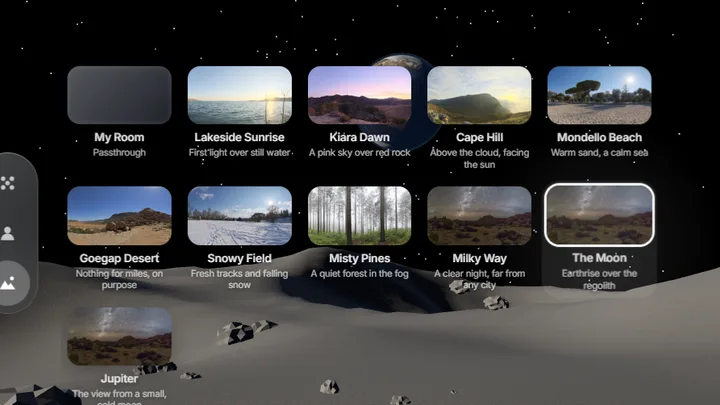
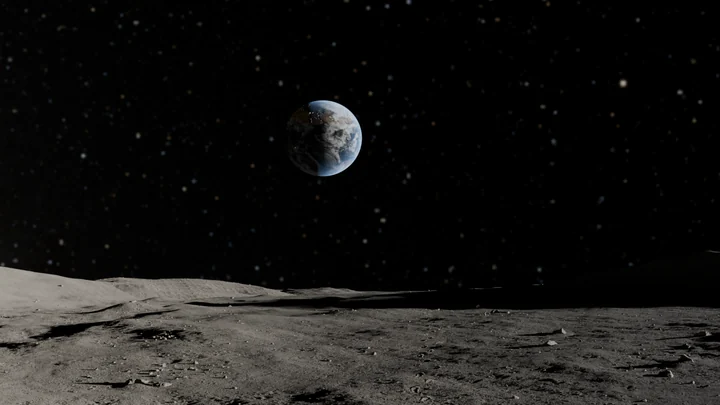
The Moon becomes a path-traced 360-degree photograph
Rendered in Blender Cycles at 8K from Poly Haven's CC0 lunar terrain, with an Earth built from
NASA's Blue Marble and Black Marble maps (city lights on the night side) and a sky from NASA's
Deep Star Maps 2020. It now uses the photo pipeline; the old three.js Moon and its map go.

Claude-Session: https://claude.ai/code/session_011U9gScKH4wDu2Df3EQjfnb

diff --git a/src/components/pages/home/vision/VisionEnvironment.vue b/src/components/pages/home/vision/VisionEnvironment.vue
@@ -210,31 +210,16 @@ async function enter(id: VisionEnvironmentId, turn: number) {
       });
     }
   } else {
-    // Space: a black sky of stars, one hard sun, and a world to stand on.
-    const sky = stars(now.kind === 'moon' ? 5200 : 4200, 400);
+    // Jupiter: a black sky of stars, one hard sun, and a small cold moon to stand on.
+    const sky = stars(4200, 400);
     // The sun sits low and to the side of the wearer: craters throw long shadows and the worlds overhead show most of their lit face.
-    const sun = new DirectionalLight(0xfff4e6, now.kind === 'moon' ? 3.2 : 2.7);
+    const sun = new DirectionalLight(0xfff4e6, 2.7);
     sun.position.set(-230, 64, 70);
-    scene.add(sun, new AmbientLight(0x3a4260, now.kind === 'moon' ? 0.3 : 0.55));
+    scene.add(sun, new AmbientLight(0x3a4260, 0.55));
     owned.push({ dispose: () => { sun.dispose(); } });
     const world = new Group();
     scene.add(world);
-    if (now.kind === 'moon') {
-      regolith('#a3a3a1', 1, 190);
-      const map = await picture('earth-map.webp');
-      if (turn !== request) return;
-      // Earth is drawn larger than life, the way it feels in the Apollo photographs.
-      const earth = new Mesh(keep(new SphereGeometry(21, 72, 48)), keep(new MeshStandardMaterial({ map, roughness: 0.8, metalness: 0, emissive: new Color(0x0a1830), emissiveIntensity: 0.6 })));
-      earth.position.set(34, 74, -230); earth.rotation.z = 0.41;
-      const air = new Mesh(keep(new SphereGeometry(21.9, 56, 36)), keep(new MeshBasicMaterial({ color: 0x5aa8ff, transparent: true, opacity: 0.2, side: BackSide, blending: AdditiveBlending, depthWrite: false })));
-      air.position.copy(earth.position);
-      world.add(earth, air);
-      const earthLight = new DirectionalLight(0x9cc4ff, 0.18);
-      earthLight.position.copy(earth.position);
-      scene.add(earthLight);
-      owned.push({ dispose: () => earthLight.dispose() });
-      ticks.push((seconds) => { earth.rotation.y = 2.2 + seconds * 0.012; sky.rotation.y = seconds * 0.0012; });
-    } else {
+    {
       regolith('#c6b79b', 0.75, 120);
       const map = await picture('jupiter-map.webp');
       if (turn !== request) return;

diff --git a/src/components/pages/home/vision/vision.ts b/src/components/pages/home/vision/vision.ts
@@ -35,7 +35,8 @@ export type VisionAppId = (typeof VISION_APPS)[number]['id'];
 /**
  * Places to be. `room` is passthrough: the real 3D room behind the glass.
  * `photo` places are 360-degree photographs from Poly Haven (CC0), named for where they were taken;
- * `moon` and `jupiter` are built in three.js from NASA's public-domain maps.
+ * The Moon is a full 360-degree path-traced render: Poly Haven's CC0 lunar terrain, an Earth from NASA's Blue
+ * Marble and Black Marble maps, and NASA's Deep Star Maps sky. `jupiter` is built in three.js from NASA's maps.
  * `life` adds something that moves; `sound` picks the ambience; `night` marks places that are already dark.
  */
 export const VISION_ENVIRONMENTS = [
@@ -53,7 +54,7 @@ export const VISION_ENVIRONMENTS = [
   { id: 'sunflowers', name: 'Open Fields', line: 'Big sky, small road, no plans', kind: 'photo', life: 'motes', sound: 'wind', night: false },
   { id: 'fireside', name: 'Fireside', line: 'A warm room and a crackling stove', kind: 'photo', life: 'none', sound: 'fire', night: true },
   { id: 'night', name: 'Milky Way', line: 'A clear night, far from any city', kind: 'photo', life: 'meteors', sound: 'night', night: true },
-  { id: 'moon', name: 'The Moon', line: 'Earthrise over the regolith', kind: 'moon', life: 'none', sound: 'space', night: true },
+  { id: 'moon', name: 'The Moon', line: 'Earthrise over the regolith', kind: 'photo', life: 'none', sound: 'space', night: true },
   { id: 'jupiter', name: 'Jupiter', line: 'The view from a small, cold moon', kind: 'jupiter', life: 'none', sound: 'space', night: true },
 ] as const;
 export type VisionEnvironment = (typeof VISION_ENVIRONMENTS)[number];

diff --git a/src/components/pages/home/vision/apps/TV.vue b/src/components/pages/home/vision/apps/TV.vue
@@ -387,8 +387,7 @@ function collectionKeys(event: KeyboardEvent): void {
             <button v-hover class="environment vk-platter" @click="watchIn('room')"><span class="cinema-art"><YtIcon name="screen" /></span><b>Cinema</b></button>
             <button v-for="place in environments" :key="place.id" v-hover class="environment vk-platter"
               :aria-pressed="vision?.environment.value === place.id" @click="watchIn(place.id)">
-              <img v-if="place.kind === 'photo'" :src="'/vision/env/' + place.id + '-thumb.webp'" alt="" loading="lazy" />
-              <span v-else class="cinema-art"><YtIcon :name="place.id === 'moon' ? 'moon' : 'globe'" /></span><b>{{ place.name }}</b>
+              <img :src="'/vision/env/' + place.id + '-thumb.webp'" alt="" loading="lazy" /><b>{{ place.name }}</b>
             </button>
           </div>
         </template>

diff --git a/src/components/pages/home/vision/apps/settings/useSettingsState.ts b/src/components/pages/home/vision/apps/settings/useSettingsState.ts
@@ -313,7 +313,7 @@ export function useSettingsState() {
       return;
     }
     img.dataset.fallback = 'true';
-    img.src = '/vision/env/' + (id === 'moon' ? 'earth-map.webp' : id === 'jupiter' ? 'jupiter-map.webp' : id + '-4k.webp');
+    img.src = '/vision/env/' + (id === 'jupiter' ? 'jupiter-map.webp' : id + '-4k.webp');
   }
   function checkUpdate() {
     if (updateState.value === 'checking') return;
